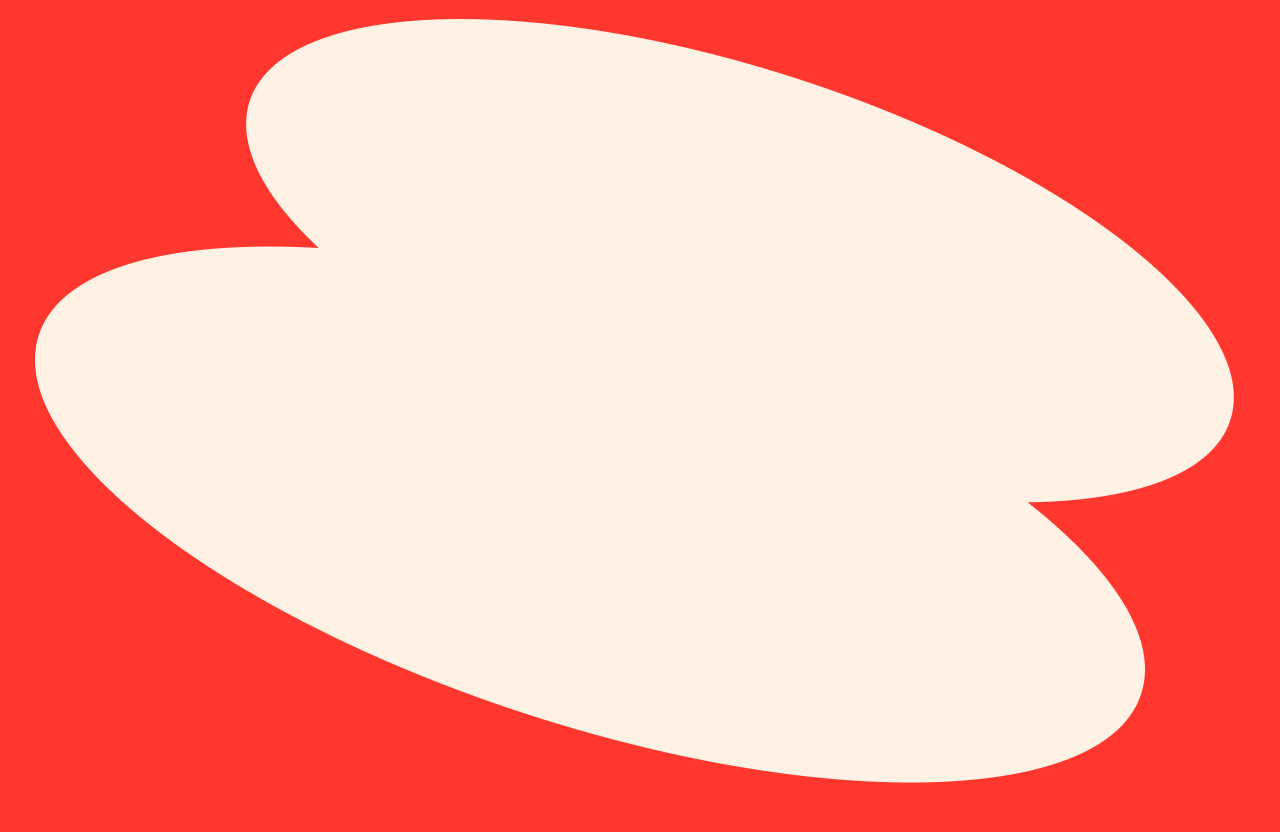
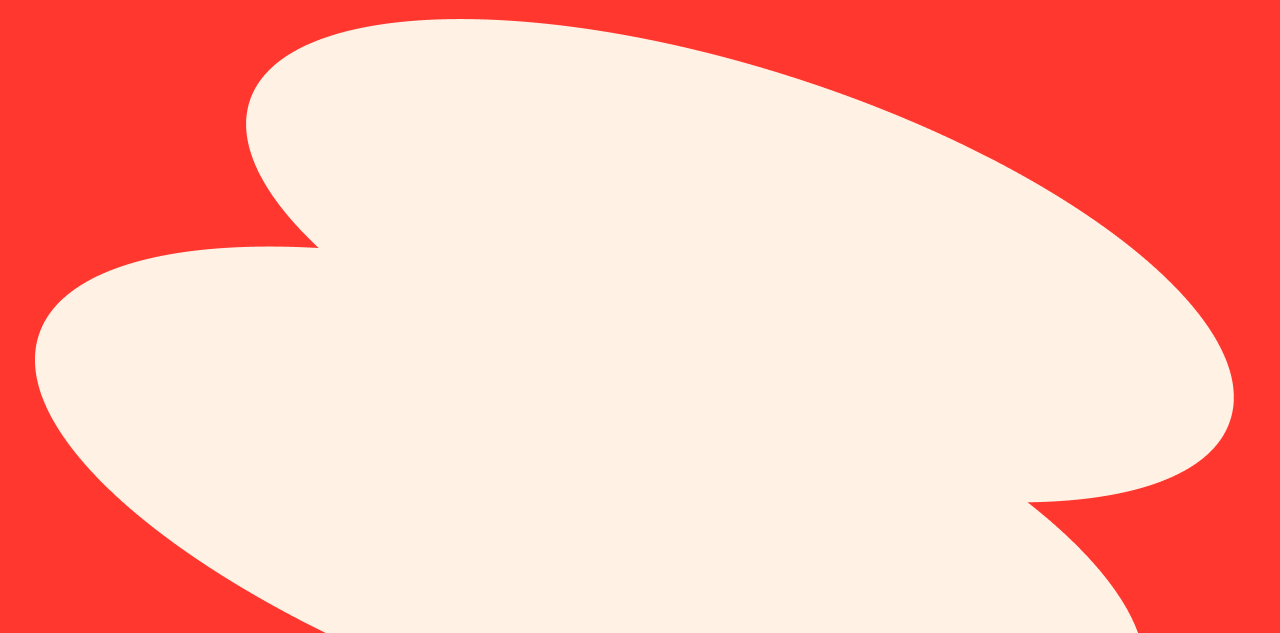
working on responsiveness

Changed region(s): [[0.0, 0.0, 0.9688, 1.0], [0.1875, 0.03, 0.3125, 0.1501]]

diff --git a/src/Pages/Home/style.css b/src/Pages/Home/style.css
@@ -32,3 +32,38 @@
     letter-spacing: 0.3rem;
     font-weight: 100;
 }
+
+@media screen and (min-width: 1024px){
+    html {
+        background-image: url("/public/images/Home.png");
+        background-repeat: no-repeat;
+        background-size: contain;
+    }
+    .home {
+        max-height: 100vh;
+        width: 100%;
+        display: flex;
+    }
+    .container {
+        display: flex;
+    }
+    .text-wrapper-1{
+        display: flex;
+        width: 50%;
+        margin-top: 5%;
+    }
+    .div-wrapper-1 {
+        bottom: 25%;
+    }
+    .div-wrapper-2 {
+        display: flex;
+        width: 50%;
+        align-items: center;
+        justify-content: space-between;
+    }
+    .text-wrapper-5,
+    .text-wrapper-4,
+    .text-wrapper-6 {
+        width: 30%;
+    }
+}

diff --git a/src/Pages/Home/index.jsx b/src/Pages/Home/index.jsx
@@ -7,9 +7,10 @@ export const Home = () => {
     <div className="container">
 
       <div className="home">
-
-        <motion.div className="text-wrapper-1" initial={{ x: -1000, y:-1000}} animate={{x: 0, y:0}} transition={{duration: 0.5}}>
-          FRONT END DEVELOPER ___</motion.div>
+        <div className="text-wrapper-1" >
+          <motion.div initial={{ x: -1000, y:-1000}} animate={{x: 0, y:0}} transition={{duration: 0.5}}>
+            FRONT END DEVELOPER ___</motion.div>
+        </div>
         <br></br>
         <div className="div-wrapper-1">
           <motion.h1 className="text-wrapper-2" initial={{ x: 1000, y: 1000.5 }} animate={{ x: 0, y: 0 }} transition={{ duration: 0.5 }}> 
